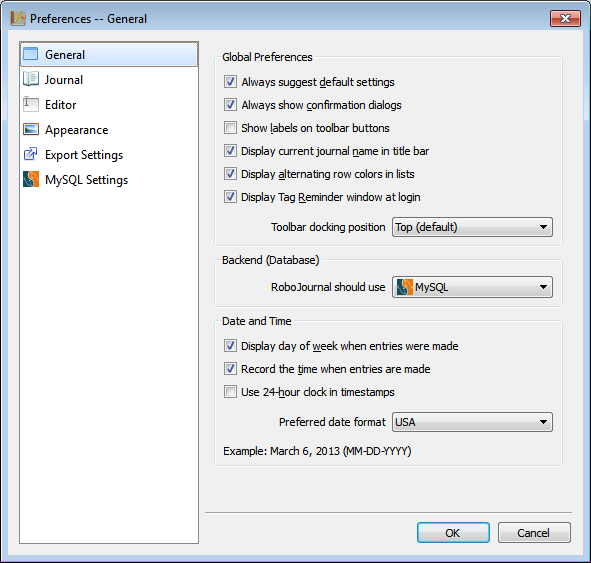
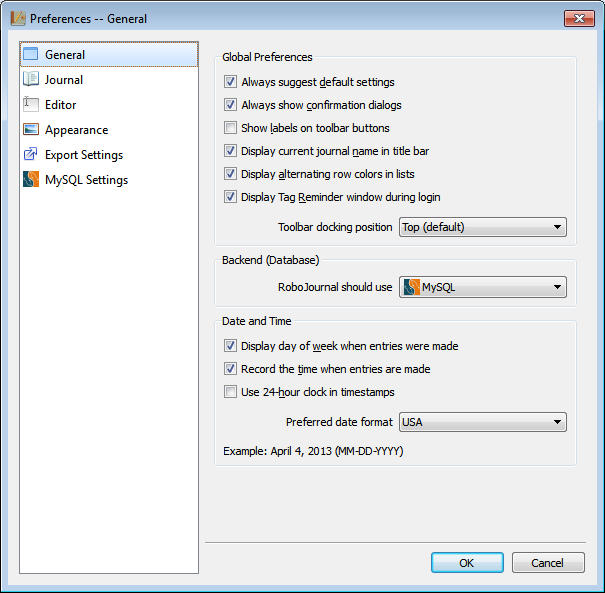
completed finishing touches to release...

Changed region(s): [[0.0, 0.0, 1.0, 0.9663]]

diff --git a/doc/faq.html b/doc/faq.html
@@ -136,21 +136,23 @@ help out?</h2>
 
 <p><em>Will Kraft's answer:</em> <br>
 <br>
-What I need the most right now are more beta testers and people who are willing
-(and able) to translate RoboJournal into other languages.</p>
+What I need the most right now are more beta testers and translators who are
+able to volunteer some of their time.</p>
 
 <p>Beta testers help me test new experimental versions of RoboJournal prior to
-release and notify me of any new bugs they find. They also suggest new features
-and other ways to improve the program. As a beta tester, you would have access
-to the newest code before anyone else. Obviously, you must have enough
-development experience and skill to compile the experimental code yourself
-because I simply don't have the time to roll and distribute custom builds. </p>
+release (usually the current "master" branch on GitHub) on a wide variety of
+operating systems and notify me of any new bugs they find. Beta testers also
+suggest new features and other ways to improve RoboJournal. As a beta tester,
+you must have enough development experience and skill to compile the
+experimental code yourself because I simply don't have the time to package and
+distribute custom builds on a regular basis. </p>
 
-<p>Translators would help me make RoboJournal available in other languages. I'm
-only fluent in English so my ability to do this myself is extremely limited. I
-would definitely appreciate someone who is willing to take the time to
-translate all text in the program into Spanish, French, German, Chinese, or any
-other world language.</p>
+<p>Translators would help me make RoboJournal available in other languages
+besides English. I'm only fluent in English so my ability to do this myself is
+extremely limited. I would definitely appreciate having several people who are
+willing to gradually translate all text in the program (and perhaps in this
+documentation as well) into Spanish, French, German, Chinese, or any other
+world language in which they have proficiency.</p>
 
 <p>If you are interested in either of these roles, please contact me at
 pwizard[<em>at</em>]gmail[<em>dot</em>]com. </p>

diff --git a/doc/preferences.html b/doc/preferences.html
@@ -119,7 +119,7 @@ list item on the left side of the Preferences window, the General page is
 displayed:</p>
 
 <p><img alt="RoboJournal Preferences -- General Page"
-src="img/screens/preferences_general.png" width="591" height="563"
+src="img/screens/preferences_general.png" width="605" height="593"
 class="screenshot"><span class="caption">Figure 1: RoboJournal Preferences
 Window — General Page</span></p>
 
@@ -179,13 +179,13 @@ underlying program behavior and appearance.</p>
         situations).</td>
     </tr>
     <tr>
-      <td class="left">Display Tag Reminder window at login</td>
+      <td class="left">Display Tag Reminder window during login</td>
       <td class="right">If checked, this option causes RoboJournal to display
         the <a href="tags.html#tag_reminder">Tag Reminder</a> window
         immediately after login under the appropriate conditions (i.e. if the
         journal contains one or more untagged entries). The Tag Reminder window
         is completely suppressed while the <strong>Display Tag Reminder window
-        at login</strong> box is unchecked.</td>
+        during login</strong> box is unchecked.</td>
     </tr>
     <tr>
       <td class="left">Toolbar docking position</td>

diff --git a/ui/mainwindow.cpp b/ui/mainwindow.cpp
@@ -1969,7 +1969,7 @@ void MainWindow::DeleteSelectedEntry(){
         if(Buffer::showwarnings){
             QMessageBox b;
             int choice=b.question(this,"RoboJournal","Do you really want to delete the selected journal entry?"
-                                  " This action can't be undone.",QMessageBox::Cancel,QMessageBox::Ok);
+                                  " This action cannot be undone.",QMessageBox::Cancel,QMessageBox::Ok);
 
             switch(choice){
             case QMessageBox::Ok:
